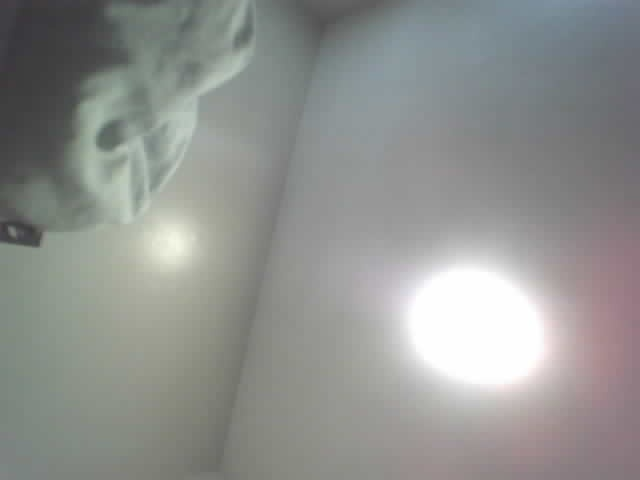
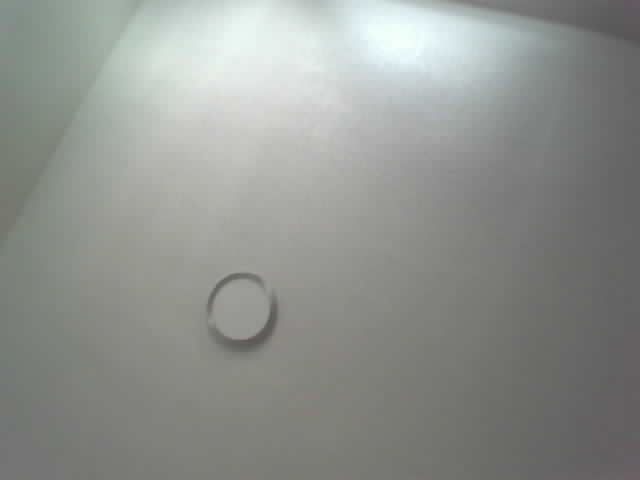
added react websocket after faces matched

diff --git a/back/server.js b/back/server.js
@@ -9,7 +9,7 @@ const { compose } = require("stream");
 const app = express();
 const server=http.createServer(app)
 let pythonSocket = null;
-let reactWebsocket=[]
+let reactWebsocket=null;
 //const YOLO = "/home/mypie/cctv-ai-models/detect.py";
 const ESP32_URL = "http://192.168.1.71/stream";
 let latestDetection = null;
@@ -374,18 +374,18 @@ for (const person of faces_embedding_in_db) {
 
         highestScore = score;
         bestMatch = person;
-        console.log(bestMatch,"best match")
-        pythonSocket.send(
+        console.log(bestMatch,"best match",socket)
+        reactWebsocket.send(
 
             JSON.stringify({
 
-                type:"match_face",
+                type:"matched_face",
 
                 person:bestMatch
 
             })
         );
-
+       console.log("data sent to react..")
     }
 
 }
@@ -395,7 +395,7 @@ for (const person of faces_embedding_in_db) {
     }
   }
   if(detection.type === "dashboard_connected"){
-
+            reactWebsocket=socket;
             console.log("This is React");
 
            // reactSockets.push(socket);
